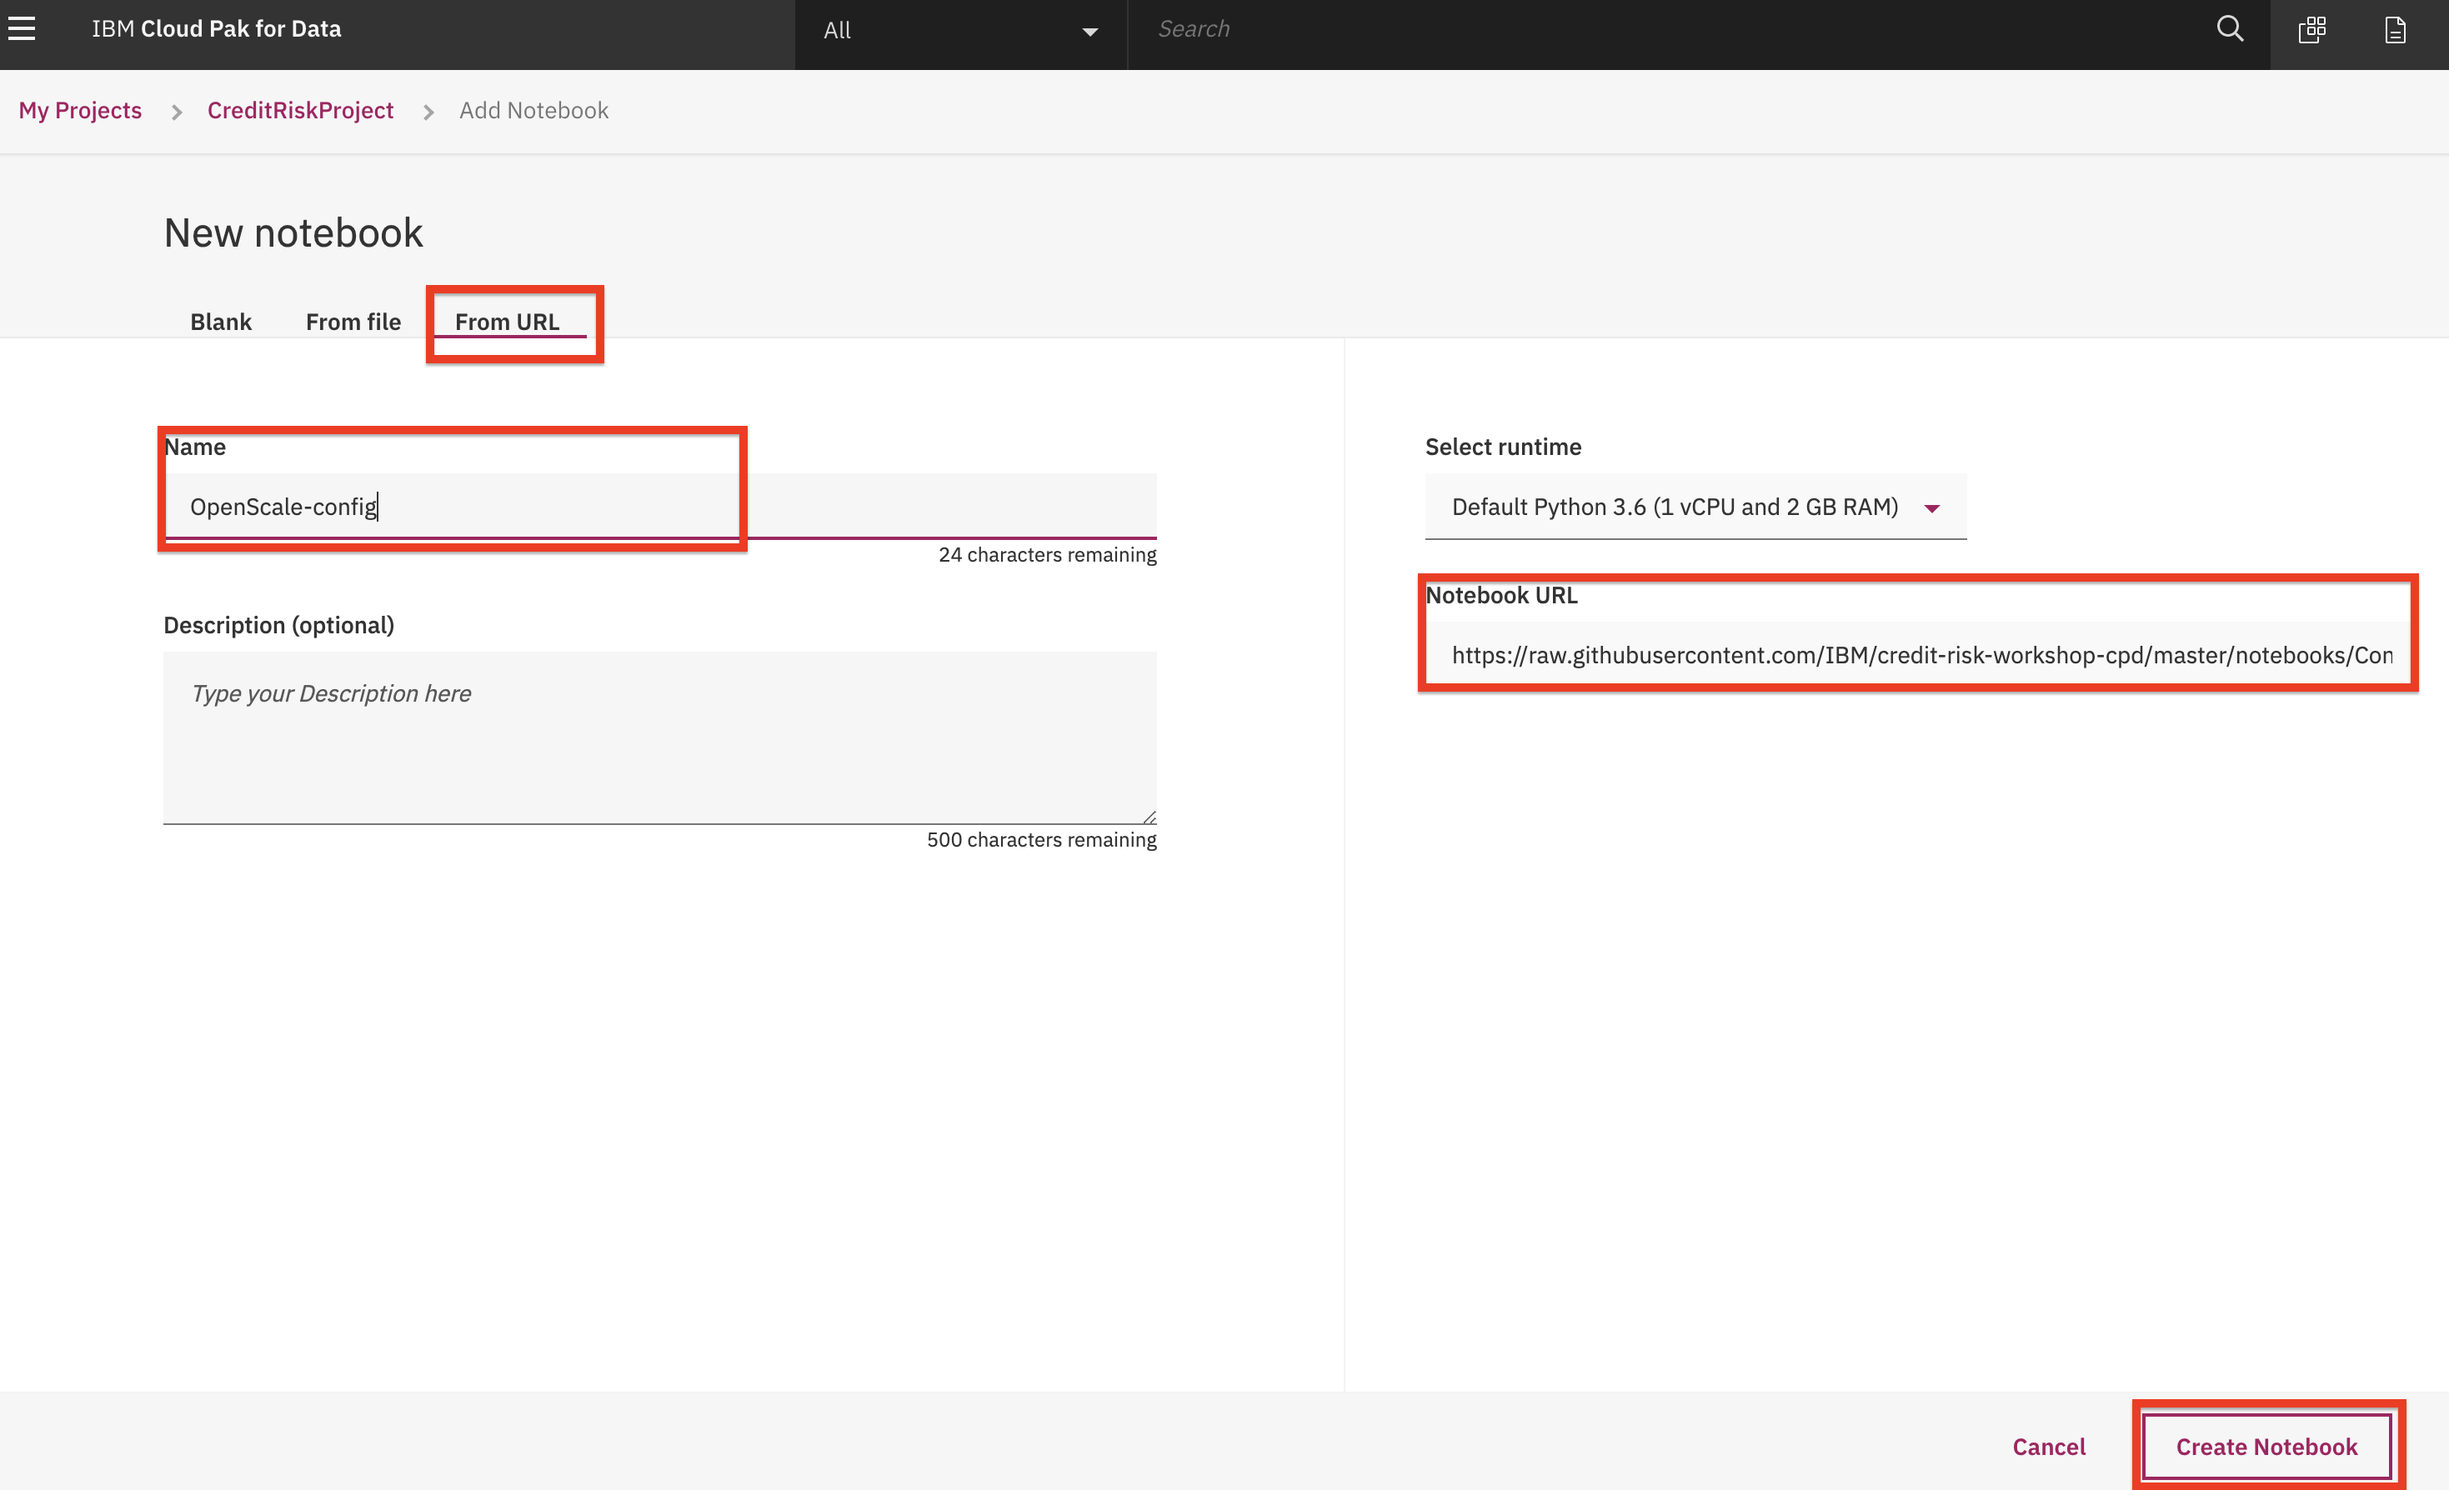
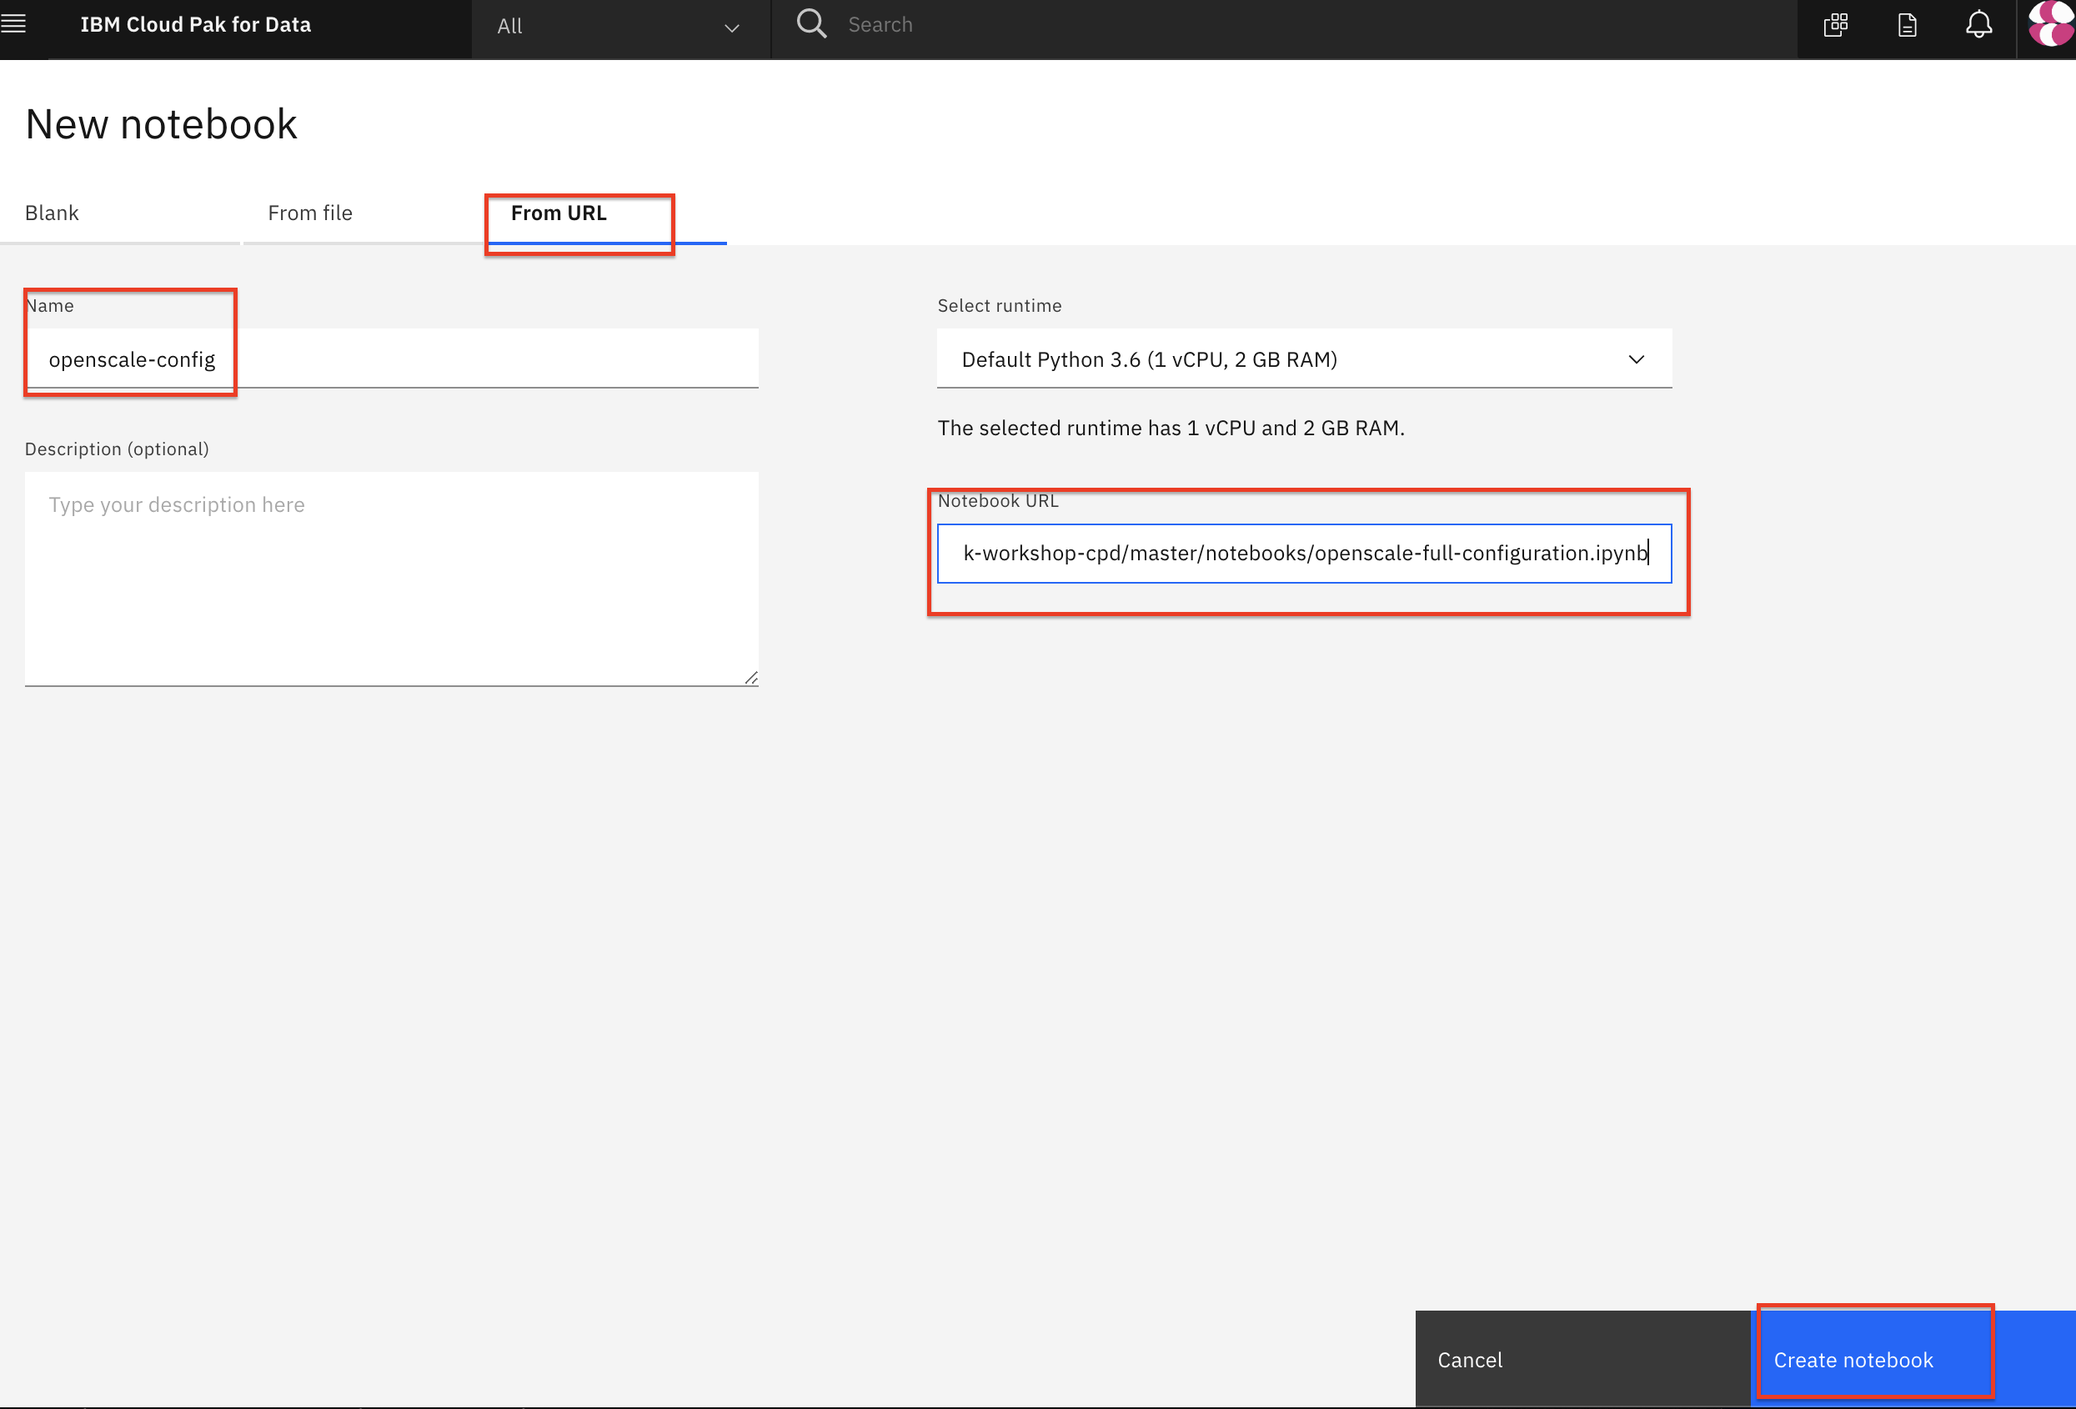
Update WOS Full Config Notebook to CPD3
- Cleaned up instructions.
- Updated screenshots.

diff --git a/workshop/openscale-notebook/README.md b/workshop/openscale-notebook/README.md
@@ -1,7 +1,6 @@
 # Configure OpenScale in a Jupyter Notebook
 
-There are several ways of configuring Watson OpenScale to monitor machine learning deployments, including the FastPath automatic configureation, using the GUI tool, a more manual configuration using the APIs, and some combintation of these.
-For this exercise we're going to configure our OpenScale service by running a Jupyter Notebook. This provides examples of using the OpenScale Python APIs programatically.
+There are several ways of configuring Watson OpenScale to monitor machine learning deployments, including the FastPath automatic configureation, using the GUI tool, a more manual configuration using the APIs, and some combintation of these. For this exercise we're going to configure our OpenScale service by running a Jupyter Notebook. This provides examples of using the OpenScale Python APIs programatically.
 
 This lab is comprised of the following steps:
 
@@ -10,56 +9,75 @@ This lab is comprised of the following steps:
 3. [Run the notebook](#3-run-the-notebook)
 4. [Get transactions for Explainability](#4-get-transactions-for-explainability)
 
-## 1. Open the notebook
+> *Note: The Jupyter notebook included in the project has been cleared of output. If you would like to see the notebook that has already been completed with output, it is hosted in the same repo as this workshop: **Notebook with output**: [with-output/openscale-full-configuration-output.ipynb](../../notebooks/with-output/openscale-full-configuration-output.ipynb)*
 
-If you [Created the Project](https://ibm-developer.gitbook.io/cloudpakfordata-credit-risk-workshop/getting-started/pre-work#create-a-new-project) using the [CreditRiskProject.zip](https://github.ibm.com/IBMDeveloper/cp4d-workshop-credit-risk/blob/master/projects/CreditRiskProject.zip) file, your notebook will be present in that project, under the `Assets` tab:
+## 1. Open the Notebook
 
-![Project from zip assets tab](../.gitbook/assets/images/aios/aios-notebook-zip-file-asset.png)
+If you [Created the Project](https://ibm-developer.gitbook.io/cloudpakfordata-credit-risk-workshop/getting-started/pre-work#create-a-new-project) using the [CreditRiskProject.zip](https://github.ibm.com/IBMDeveloper/cp4d-workshop-credit-risk/blob/master/projects/CreditRiskProject.zip) file, your notebook will be present in that project.
 
-You may now skip to the next step [Update credentials](#2-update-credentials)
+* Go the (☰) navigation menu and click on the *Projects* link and then click on your analytics project.
 
-## Import the notebook (If you are not using the Project Import pre-work steps)
+  ![(☰) Menu -> Projects](../.gitbook/assets/images/navigation/menu-projects.png)
 
-> NOTE: You should probably not need this step, and should only perform it if instructed to.
+* From your *Project* overview page, click on the *`Assets`* tab to open the assets page where your project assets are stored and organized.
 
-If, for some reason, you are not using the [Created the Project](https://ibm-developer.gitbook.io/cloudpakfordata-credit-risk-workshop/getting-started/pre-work#create-a-new-project) step in the Pre-work to import [CreditRiskProject.zip](https://github.ibm.com/IBMDeveloper/cp4d-workshop-credit-risk/blob/master/projects/CreditRiskProject.zip), then you will need to import the notebook file by itself. Use the following steps for that.
+* Scroll down to the `Notebooks` section of the page and *Click* on the pencil icon at the right of the `openscale-full-configuration` notebook.
 
-At the project overview click the *New Asset* button, and choose *Add notebook*.
+  ![Notebook Open](../.gitbook/assets/images/openscale/openscale-fullconfignotebook-open.png)
 
-![Add a new asset](../.gitbook/assets/images/wml/wml-add-asset.png)
+* When the Jupyter notebook is loaded and the kernel is ready, we will be ready to start executing it in the next section.
 
-On the next panel select the *From URL* tab, give your notebook a name, provide the following URL, and choose the Python 3.6 environment:
+  ![Notebook loaded](../.gitbook/assets/images/openscale/openscale-fullconfignotebook-loaded.png)
 
-```bash
-https://raw.githubusercontent.com/IBM/credit-risk-workshop-cpd/master/notebooks/openscale-full-configuration.ipynb
-```
+* You may now skip to the next step [Update credentials](#2-update-credentials)
 
-> The notebook is hosted in the same repo as [the workshop](https://github.com/IBM/credit-risk-workshop-cpd)
->
-> * **Notebook**: [openscale-full-configuration.ipynb](https://raw.githubusercontent.com/IBM/credit-risk-workshop-cpd/master/notebooks/openscale-full-configuration.ipynb)
-> * **Notebook with output**: [openscale-full-configuration-output.ipynb](https://raw.githubusercontent.com/IBM/credit-risk-workshop-cpd/master/notebooks/with-output/openscale-full-configuration-output.ipynb)
+### Import the Notebook
 
-![Add notebook name and URL](../.gitbook/assets/images/openscale/openscale-add-notebook-url.png)
+> NOTE: You should probably not need this step, and should only perform it if instructed to do so.
 
-When the Jupyter notebook is loaded and the kernel is ready then we can start executing cells.
+* If, for some reason, you are not using the [Created the Project](https://ibm-developer.gitbook.io/cloudpakfordata-credit-risk-workshop/getting-started/pre-work#create-a-new-project) step in the Pre-work to import [CreditRiskProject.zip](https://github.ibm.com/IBMDeveloper/cp4d-workshop-credit-risk/blob/master/projects/CreditRiskProject.zip), then you will need to import the notebook file by itself. Use the following steps for that.
 
-![Notebook loaded](../.gitbook/assets/images/aios/OpenScaleNotebook.png)
+* At the project overview click the *New Asset* button, and choose *Add notebook*.
 
-### 2. Update credentials
+* On the next panel select the *From URL* tab, give your notebook a name, provide the following URL, and leave the default Python 3.6 environment:
 
-* In the notebook section 1.2 you will add your ICP platform credentials for the `WOS_CREDENTIALS`.
-* For the `url` field, change `https://w.x.y.z` to use the URL your ICP cluster, i.e something like: `"url": "https://zen-cpd-zen.omid-cp4d-v5-2bef1f4b4097001da9502000c44fc2b2-0001.us-south.containers.appdomain.cloud"`.
-* For the `username`, use your login username.
-* For the `password`, user your login password.
+  ```bash
+  https://raw.githubusercontent.com/IBM/credit-risk-workshop-cpd/master/notebooks/openscale-full-configuration.ipynb
+  ```
 
-### 3. Run the notebook
+  ![Add notebook name and URL](../.gitbook/assets/images/openscale/openscale-add-notebook-url.png)
 
-> **Important**: *Make sure that you stop the kernel of your notebook(s) when you are done, in order to prevent leaking of memory resources!*
+* When the Jupyter notebook is loaded and the kernel is ready then we can start executing cells.
 
-![Stop kernel](../.gitbook/assets/images/wml/JupyterStopKernel.png)
+## 2. Update Credentials
 
-Spend an minute looking through the sections of the notebook to get an overview. You will run cells individually by highlighting each cell, then either click the `Run` button at the top of the notebook. While the cell is running, an asterisk (`[*]`) will show up to the left of the cell. When that cell has finished executing a sequential number will show up (i.e. `[17]`).
+* In the notebook section 1.2 you edit the first code cell to use your Cloud Pak for Data platform credentials in the `WOS_CREDENTIALS`.
 
-### 4. Get transactions for Explainability
+  * For the `url`, use the URL your cluster, i.e something like: `"url": "https://zen.clusterid.us-south.containers.appdomain.cloud"`.
+  * For the `username`, use your login username.
+  * For the `password`, user your login password.
+
+  ![Edite notebook credentials](../.gitbook/assets/images/openscale/openscale-fullconfignotebook-creds.png)
+
+## 3. Run the Notebook
+
+Spend some time looking through the sections of the notebook to get an overview. A notebook is composed of text (markdown or heading) cells and code cells. The markdown cells provide comments on what the code is designed to do.
+
+You will run cells individually by highlighting each cell, then either click the `Run` button at the top of the notebook or hitting the keyboard short cut to run the cell (Shift + Enter but can vary based on platform). While the cell is running, an asterisk (`[*]`) will show up to the left of the cell. When that cell has finished executing a sequential number will show up (i.e. `[17]`).
+
+_**Please note that some of the comments in the notebook are directions for you to modify specific sections of the code. Perform any changes as indicated before running / executing the cell.**_
+
+### 4. Get Transactions for Explainability
 
 Under `8.9 Identify transactions for Explainability` run the cell. It will produce a series of UIDs for indidvidual ML scoring transactions. Copy one or more of them to examine in the next section.
+
+## Conclusion
+
+In this section we covered one of the approaches to configure Watson OpenScale to monitor a machine learning model on Cloud Pak for Data. We have seen:
+
+* How to build a model using Jupyter Notebook.
+* How to use the OpenScale Python APIs programatically.
+* How to configure all the monitors in OpenScale.
+
+> **Important**: *Make sure that you stop the kernel of your notebook(s) when you are done, in order to conserve resources! You can do this by going to the Asset page of the project, selecting the three vertical dots under the Action column for the notebook you have been running (in this case the `openscale-full-configuration`) and selecting to `Stop Kernel` from the Actions menu. If you see a lock icon on the notebook, click it to unlock the notebook before you click the Actions menu so you can see the stop kernel option.*
+> ![Stop kernel](../.gitbook/assets/images/ml/stop-notebook-kernel.png)
